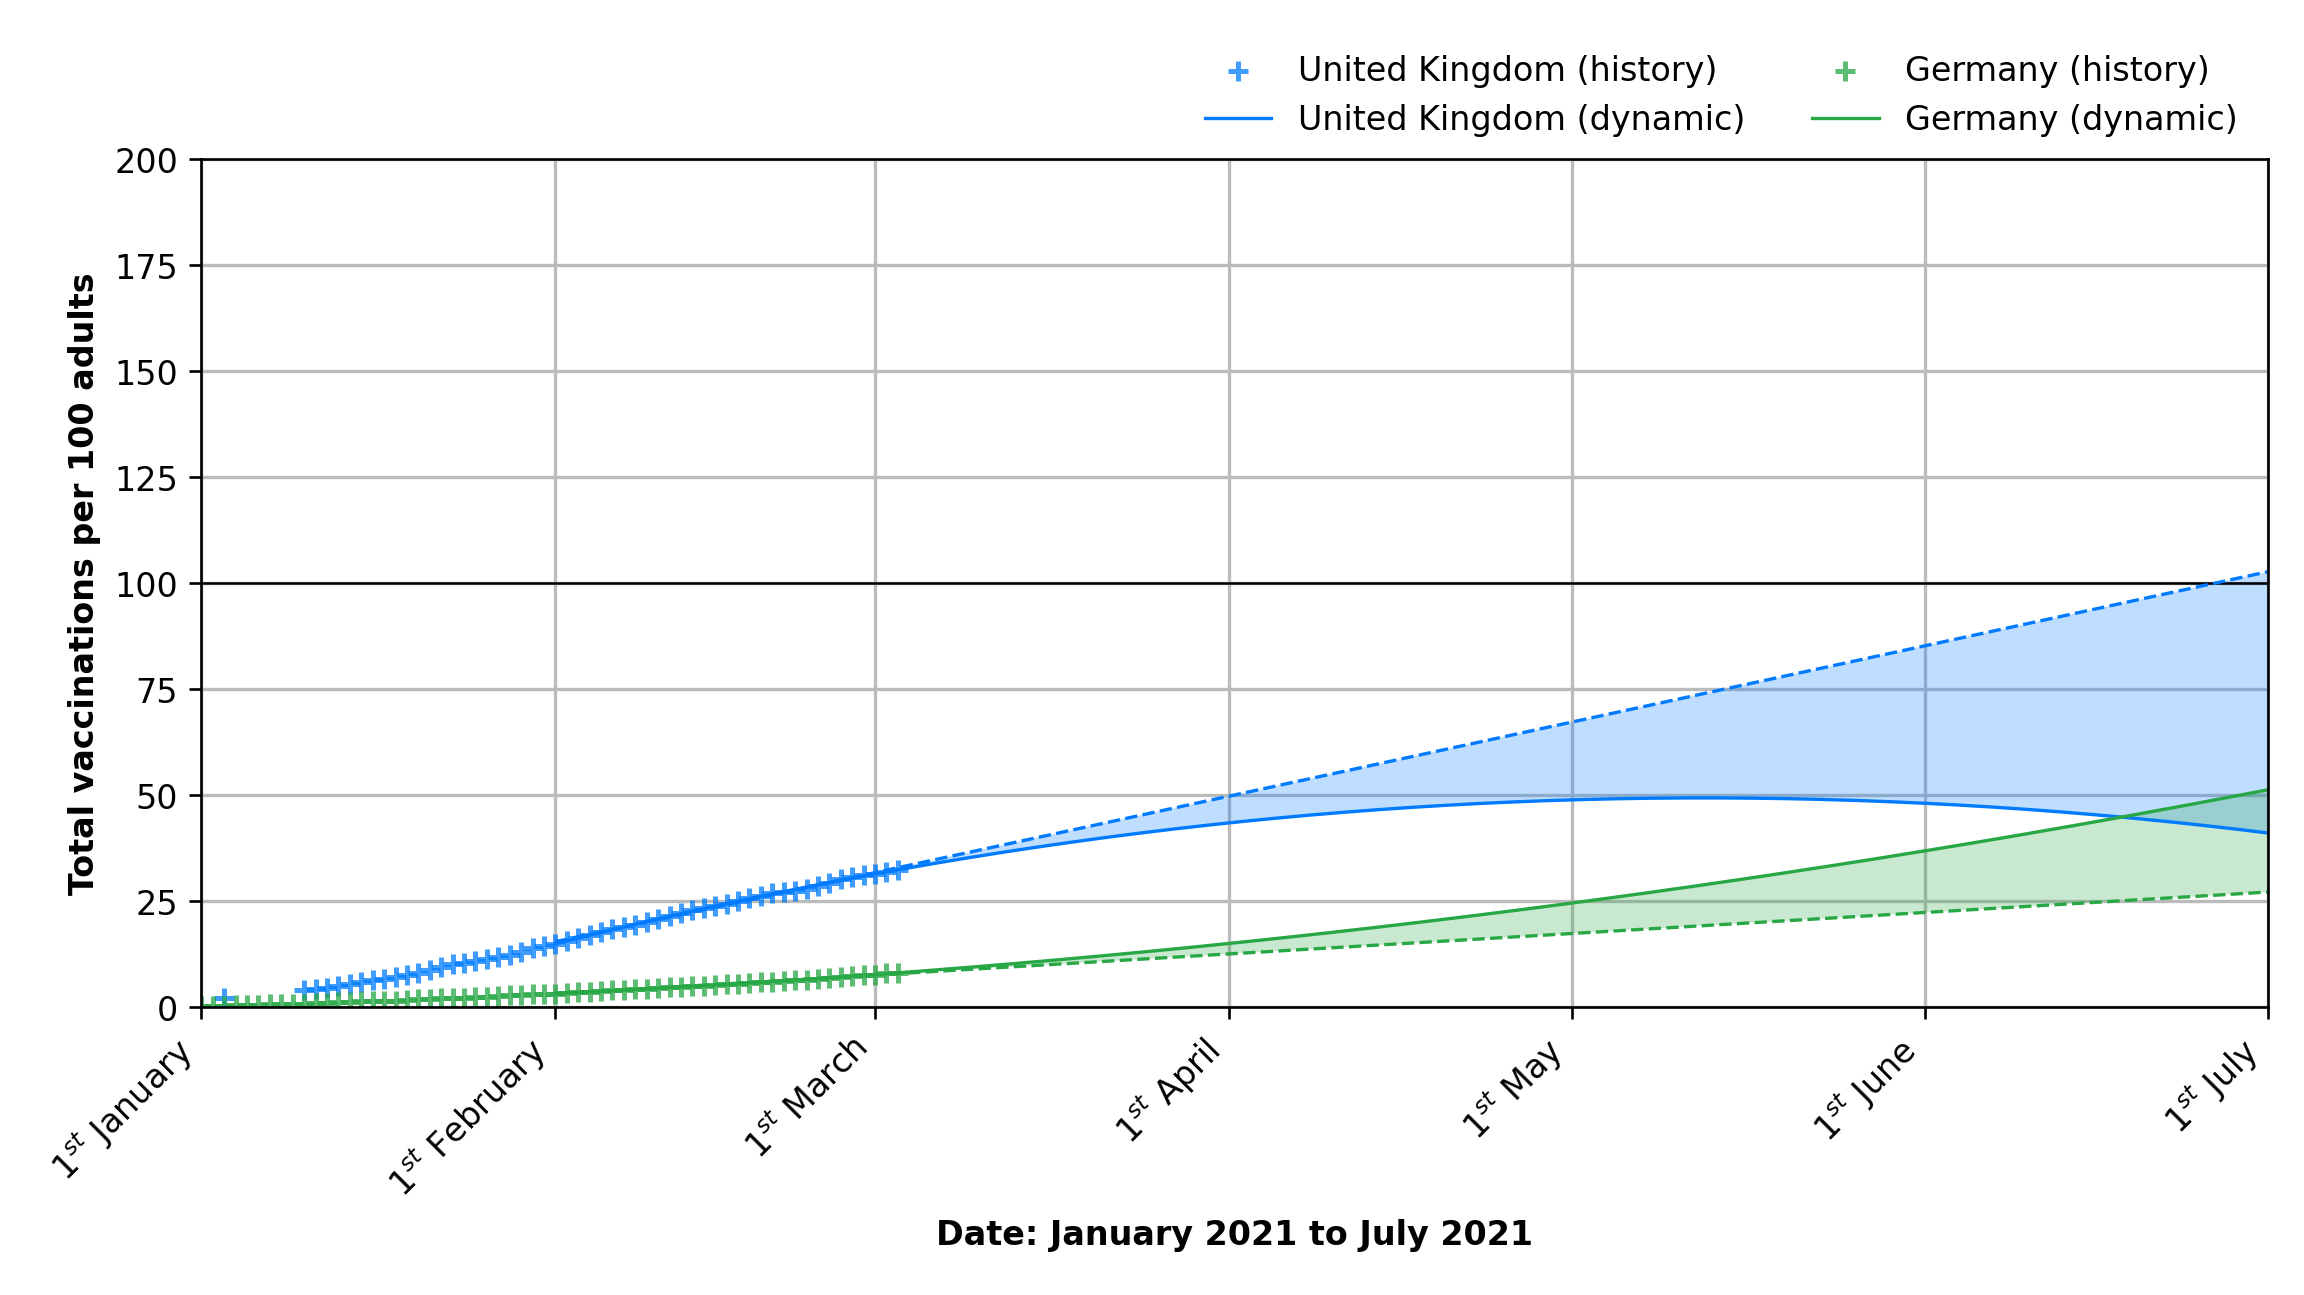
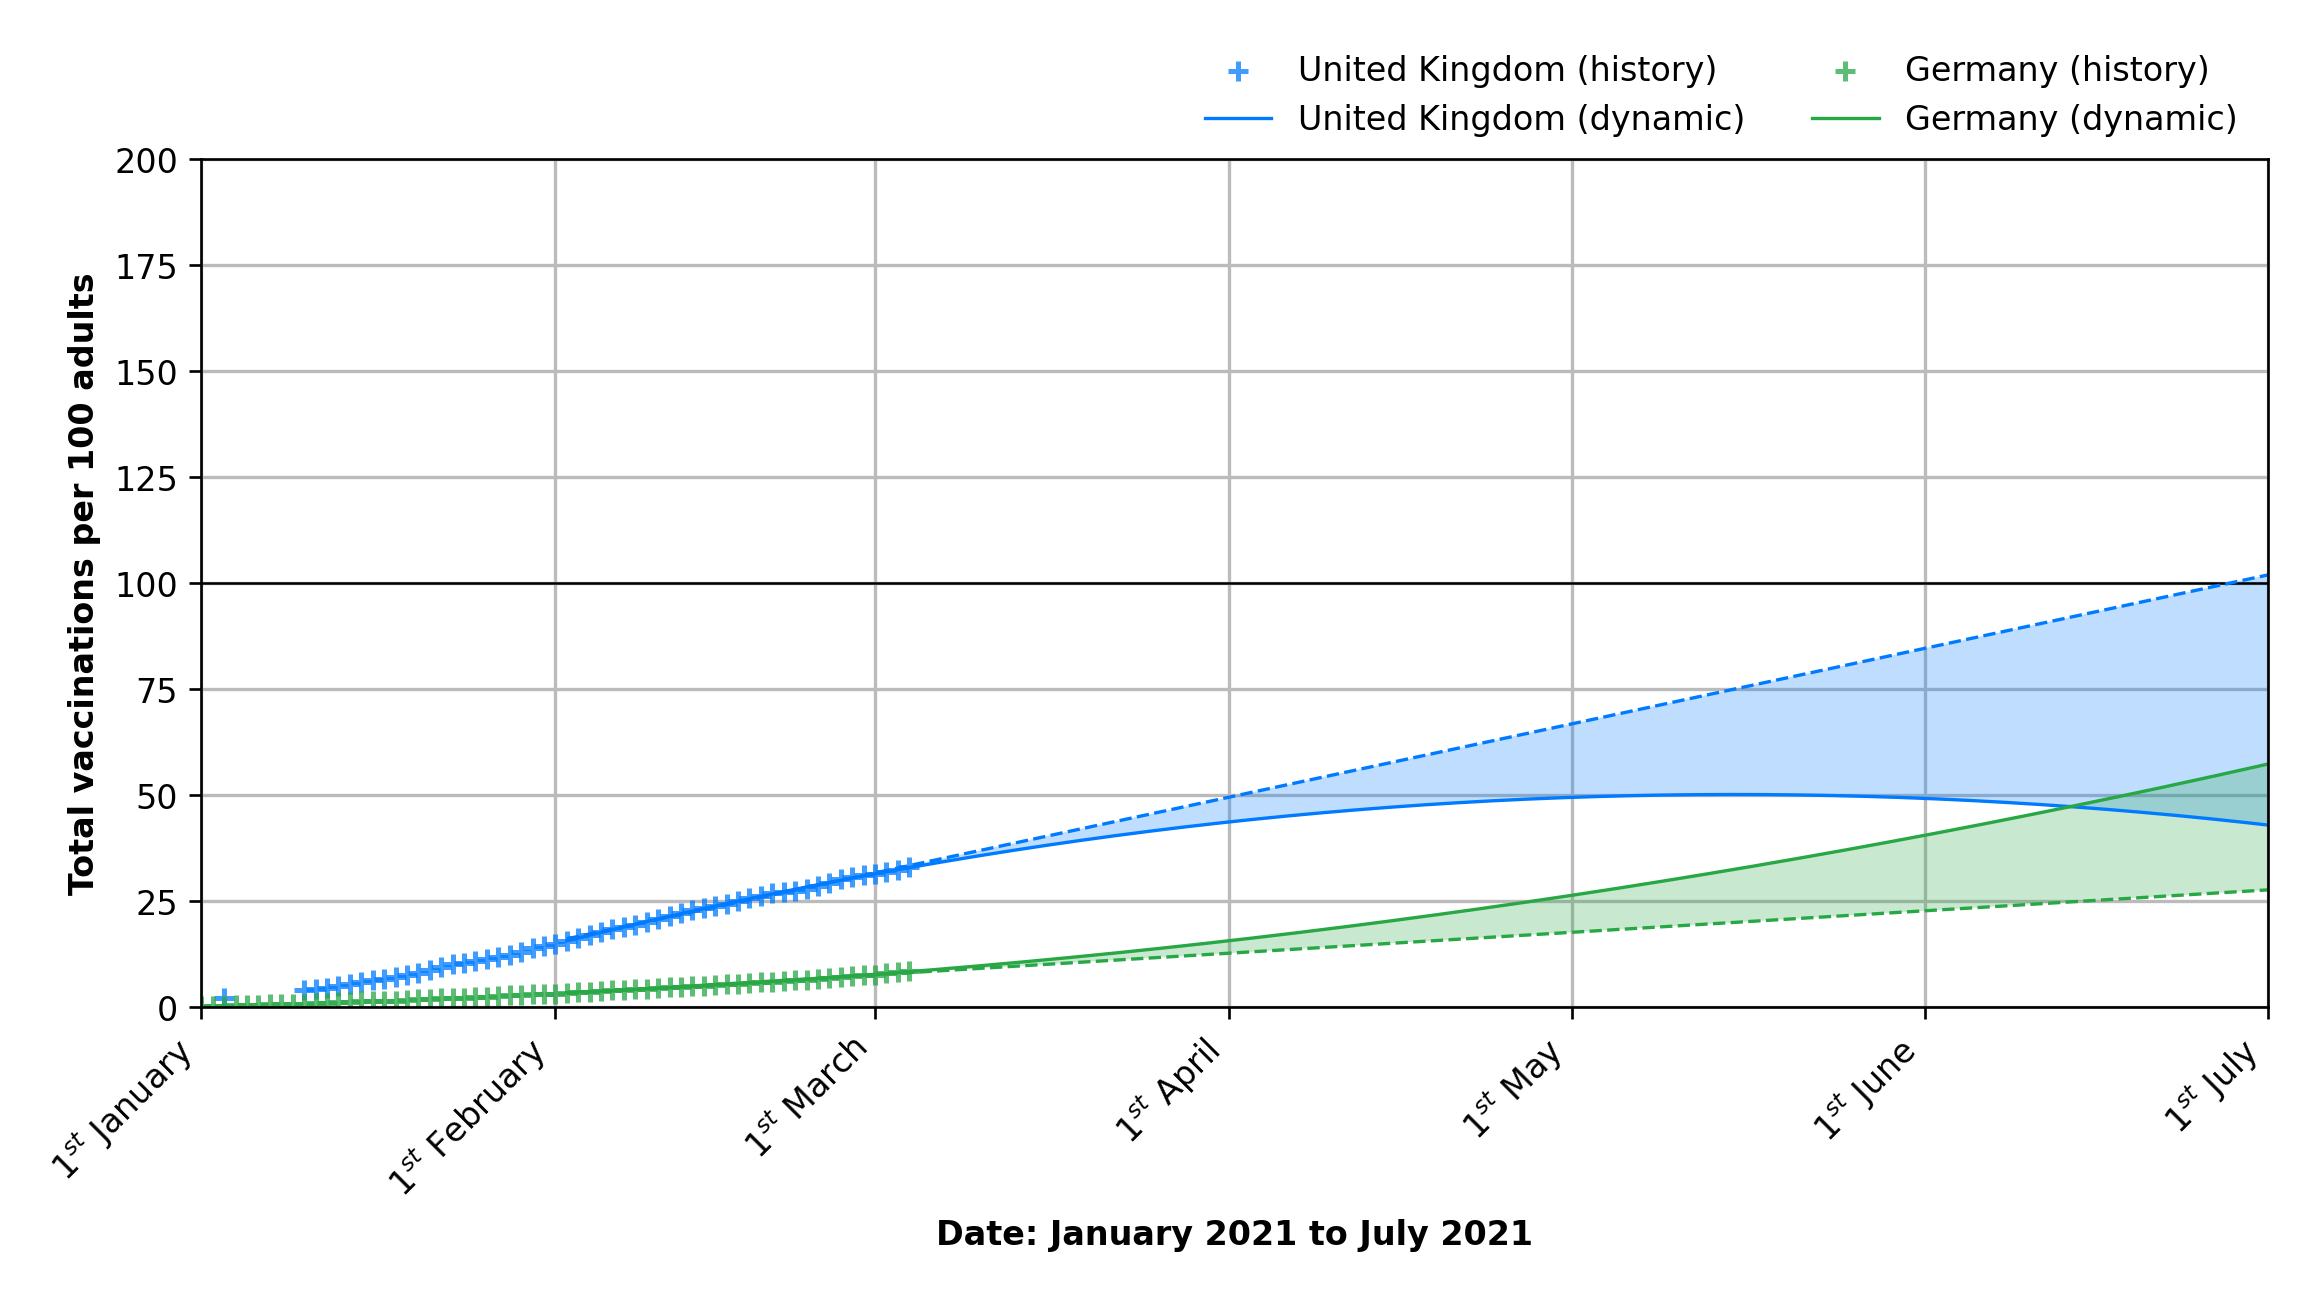
Deploying to gh-pages from @ lambdapioneer/vactrend@1b8b436be16664886d7738f8712cdc14d83be6f4 🚀

diff --git a/index.html b/index.html
@@ -37,13 +37,13 @@
                 <div class="card">
                     <div class="card-header">🇬🇧 United Kingdom</div>
                     <div class="card-body">
-                        <h3 class="font-weight-bold" style="color: #007bff">32.33 <small>(+0.51/d)</small></h3>
+                        <h3 class="font-weight-bold" style="color: #007bff">32.99 <small>(+0.66/d)</small></h3>
                         <p class="mt-n2">Vaccinations per 100 adults</p>
-                        <h3 class=" font-weight-bold">27 June 2021</h3>
+                        <h3 class=" font-weight-bold">28 June 2021</h3>
                         <p class="mt-n2">Earliest day: 100 vacc. per 100 adults</p>
-                        <h3 class=" font-weight-bold">16 December 2021</h3>
+                        <h3 class=" font-weight-bold">19 December 2021</h3>
                         <p class="mt-n2">Earliest day: 200 vacc. per 100 adults</p>
-                        <p class="card-text"><small class="text-muted">Last data from 03 March 2021.</small></p>
+                        <p class="card-text"><small class="text-muted">Last data from 04 March 2021.</small></p>
                     </div>
                 </div>
             </div>
@@ -52,13 +52,13 @@
                 <div class="card">
                     <div class="card-header">🇩🇪 Germany</div>
                     <div class="card-body">
-                        <h3 class="font-weight-bold" style="color: #28a745">8.13 <small>(+0.23/d)</small></h3>
+                        <h3 class="font-weight-bold" style="color: #28a745">8.45 <small>(+0.27/d)</small></h3>
                         <p class="mt-n2">Vaccinations per 100 adults</p>
-                        <h3 class=" font-weight-bold">18 September 2021</h3>
+                        <h3 class=" font-weight-bold">31 August 2021</h3>
                         <p class="mt-n2">Earliest day: 100 vacc. per 100 adults</p>
-                        <h3 class=" font-weight-bold">09 January 2022</h3>
+                        <h3 class=" font-weight-bold">11 December 2021</h3>
                         <p class="mt-n2">Earliest day: 200 vacc. per 100 adults</p>
-                        <p class="card-text"><small class="text-muted">Last data from 03 March 2021.</small></p>
+                        <p class="card-text"><small class="text-muted">Last data from 04 March 2021.</small></p>
                     </div>
                 </div>
             </div>
